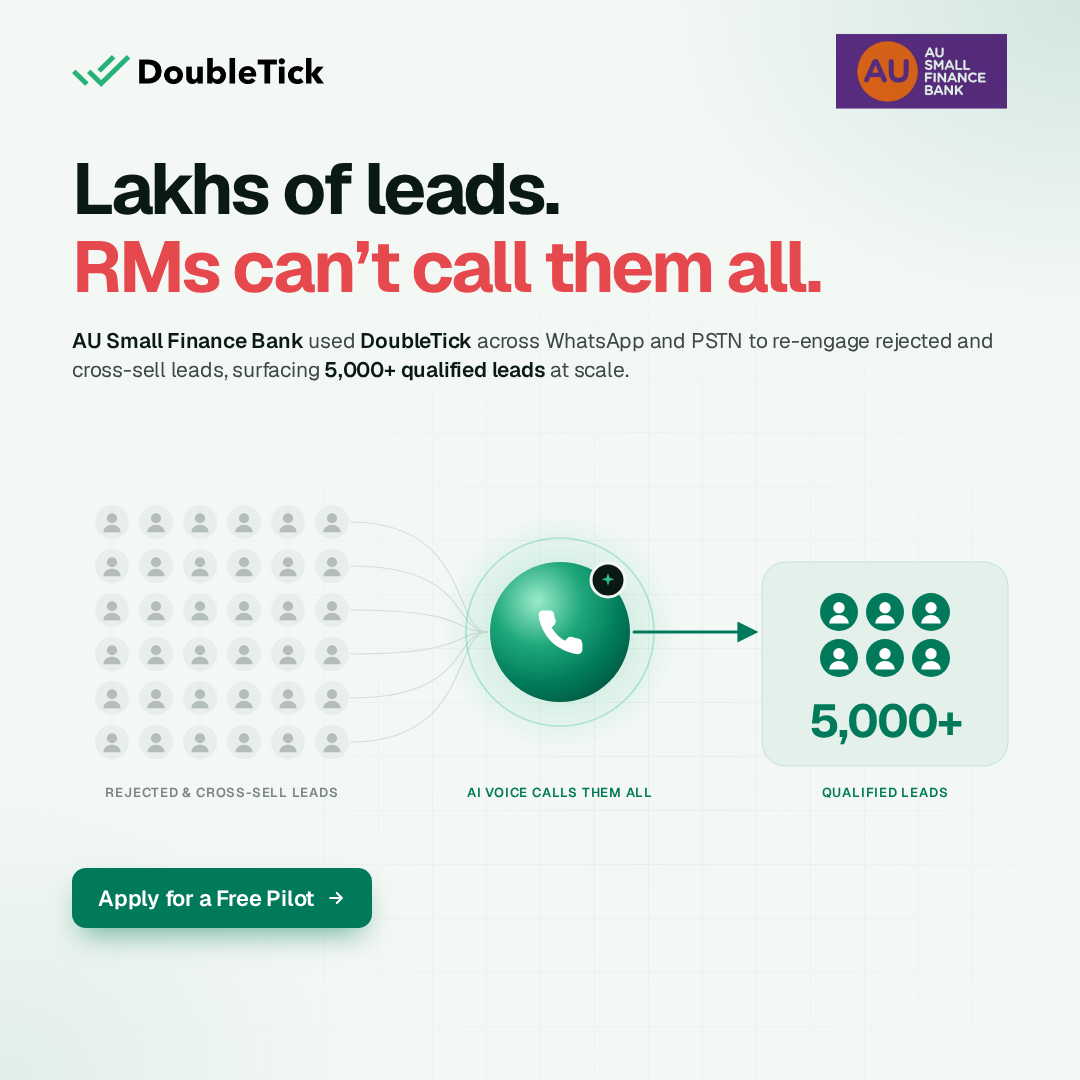
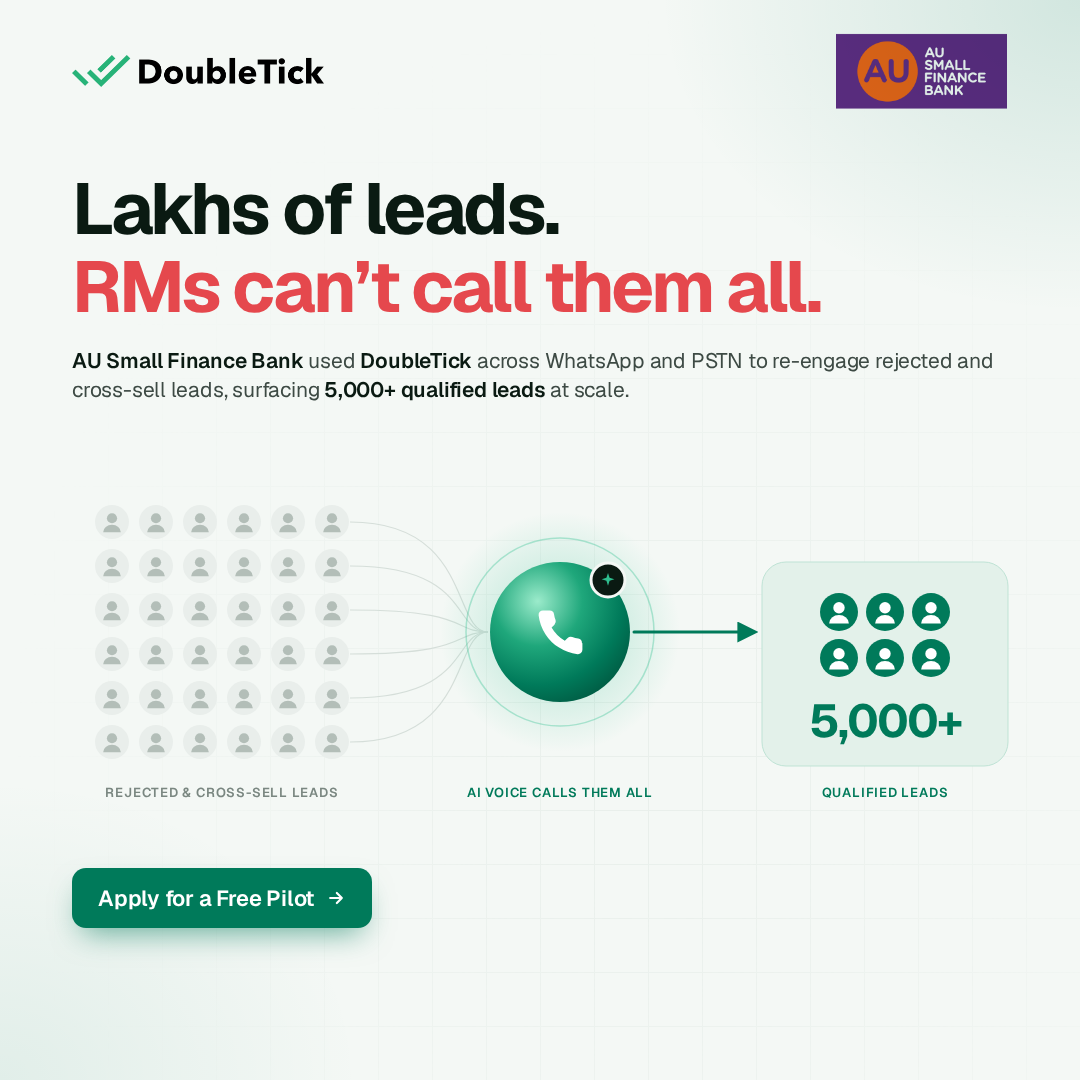
feat: shift AU ad hook and subheading down 20px
Claude-Session: https://claude.ai/code/session_013Hi5o4KgvuLbKTeGkStAKX

Changed region(s): [[0.0611, 0.1528, 0.9167, 0.3667]]

diff --git a/ads/doubletick-case-au/index.html b/ads/doubletick-case-au/index.html
@@ -52,7 +52,7 @@
   }
   .pill i { width: 8px; height: 8px; border-radius: 50%; background: var(--green-2); box-shadow: 0 0 0 4px rgba(47,191,143,.25); }
 
-  h1 { margin-top: 20px; font-size: 72px; line-height: 1.08; letter-spacing: -0.04em; font-weight: 700; }
+  h1 { margin-top: 40px; font-size: 72px; line-height: 1.08; letter-spacing: -0.04em; font-weight: 700; }
   h1 .drop { color: var(--muted); }
   h1 .die { color: var(--red); }
   h1 em { font-style: normal; color: var(--green); }
